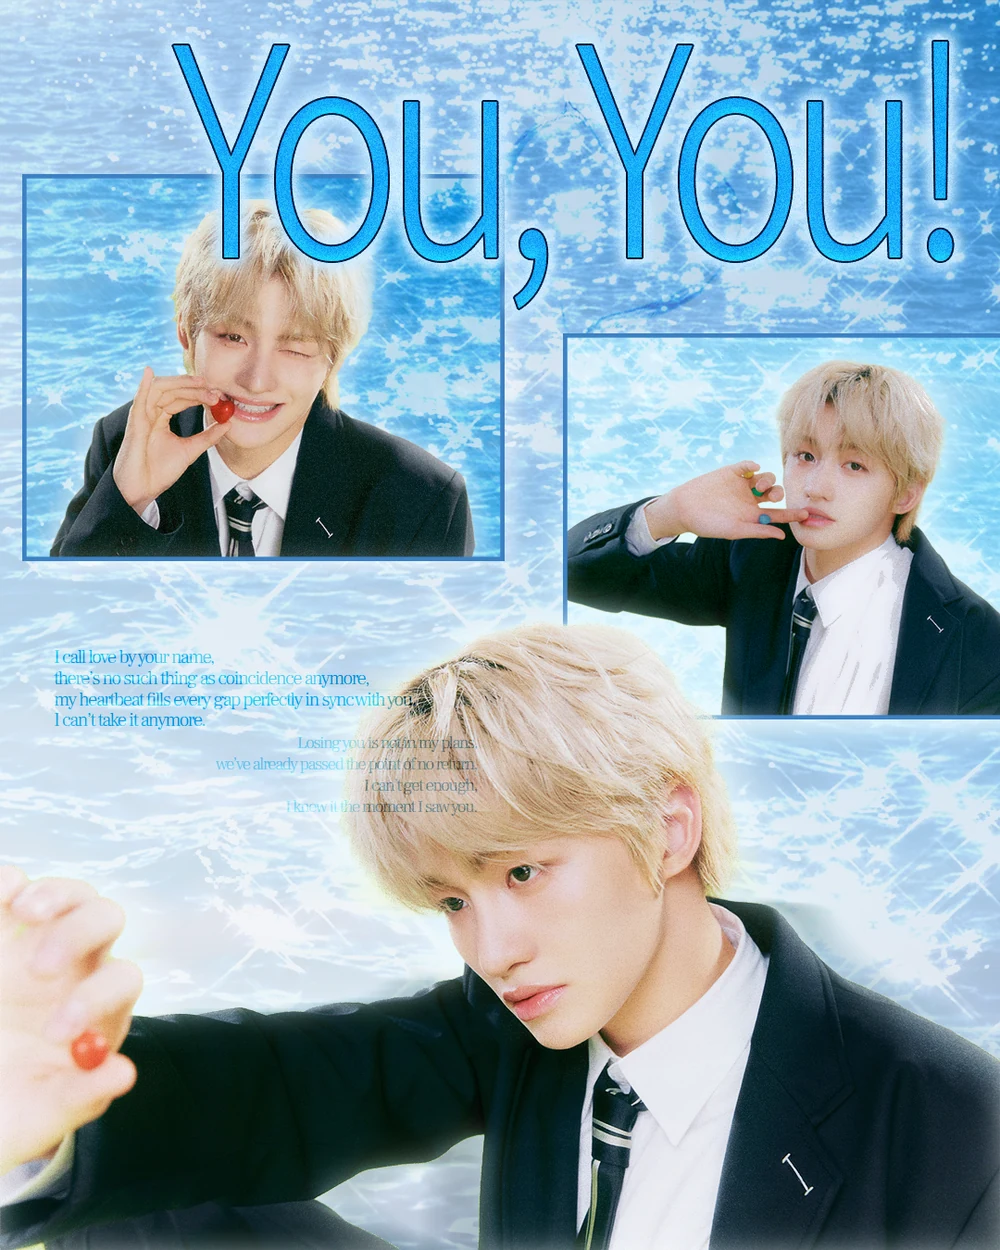
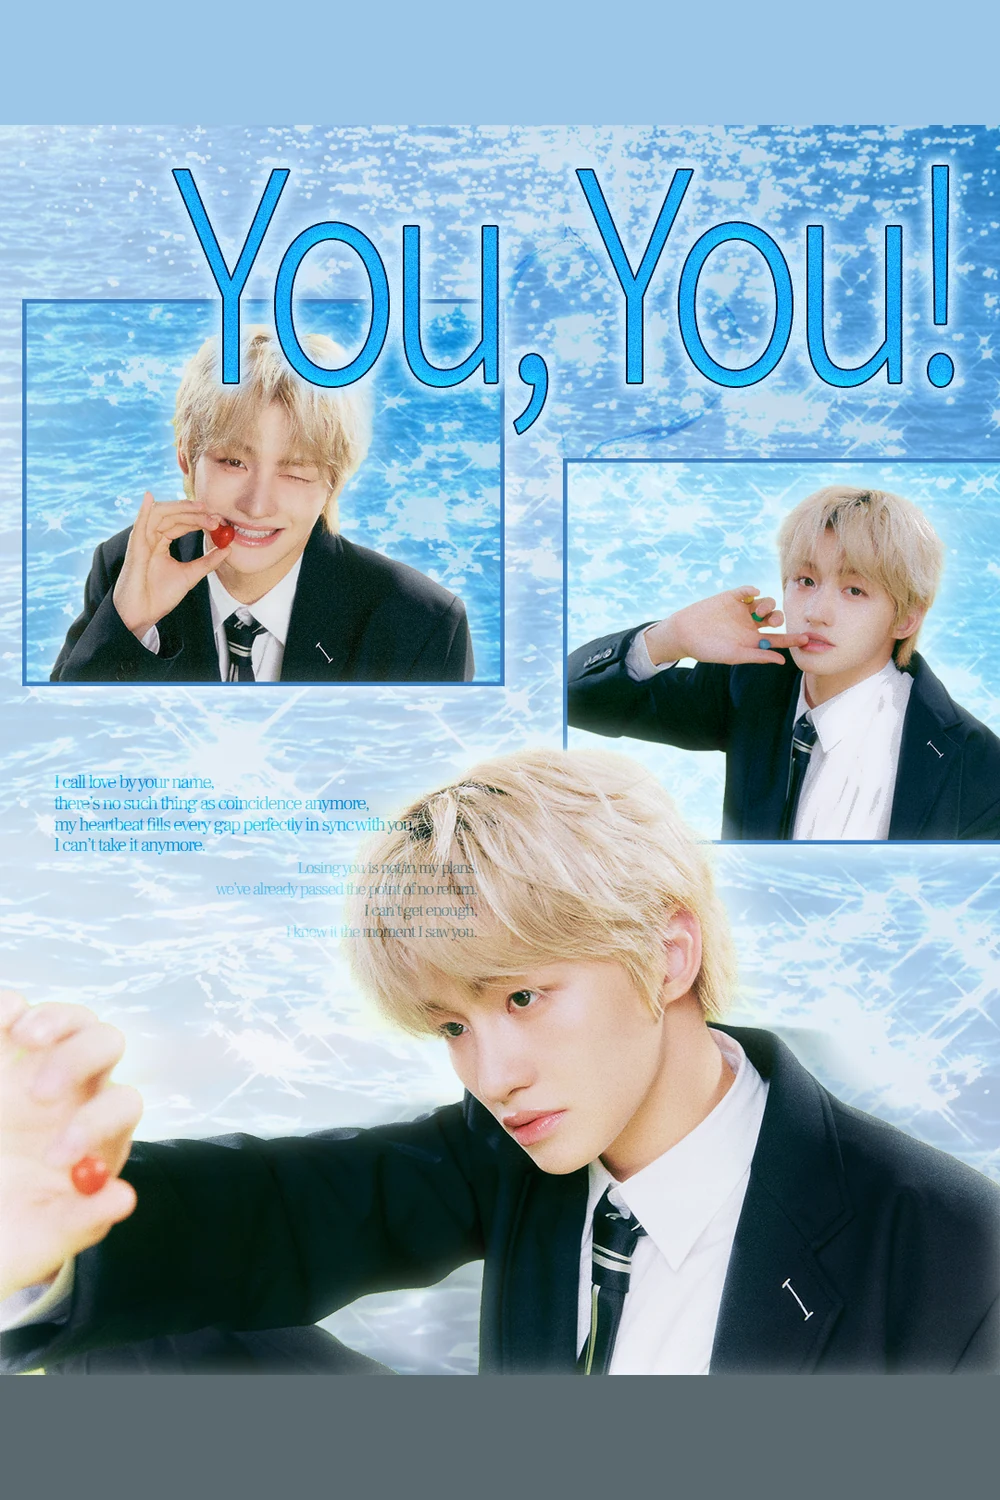
Poster thumbnails all 2:3: 4:5 posters padded with solid edge-color bands
Detail pages still show the original 4:5 posters.

Claude-Session: https://claude.ai/code/session_01LjVCjRoNRHvuo7CHgCXafM

diff --git a/src/data/works.ts b/src/data/works.ts
@@ -162,7 +162,7 @@ export const works: Work[] = [
     description: placeholderText,
     thumbnail: 'works/poster-02-thumb.webp',
     thumbnailSrcSet: 'works/poster-02-thumb-600.webp 600w, works/poster-02-thumb.webp 1000w',
-    thumbnailSize: [1000, 1250],
+    thumbnailSize: [1000, 1500], // 썸네일만 2:3 (위아래 단색 확장) — 상세는 원본 4:5
     image: 'works/poster-02-full.webp',
     imageSize: [1080, 1350],
     imageAlt: '널따라가 지훈 포스터',
@@ -218,7 +218,7 @@ export const works: Work[] = [
     description: placeholderText,
     thumbnail: 'works/poster-06-thumb.webp',
     thumbnailSrcSet: 'works/poster-06-thumb-600.webp 600w, works/poster-06-thumb.webp 1000w',
-    thumbnailSize: [1000, 1250],
+    thumbnailSize: [1000, 1500], // 썸네일만 2:3 (위아래 단색 확장) — 상세는 원본 4:5
     image: 'works/poster-06-full.webp',
     imageSize: [1080, 1350],
     imageAlt: '규진 붐 별 포스터',
